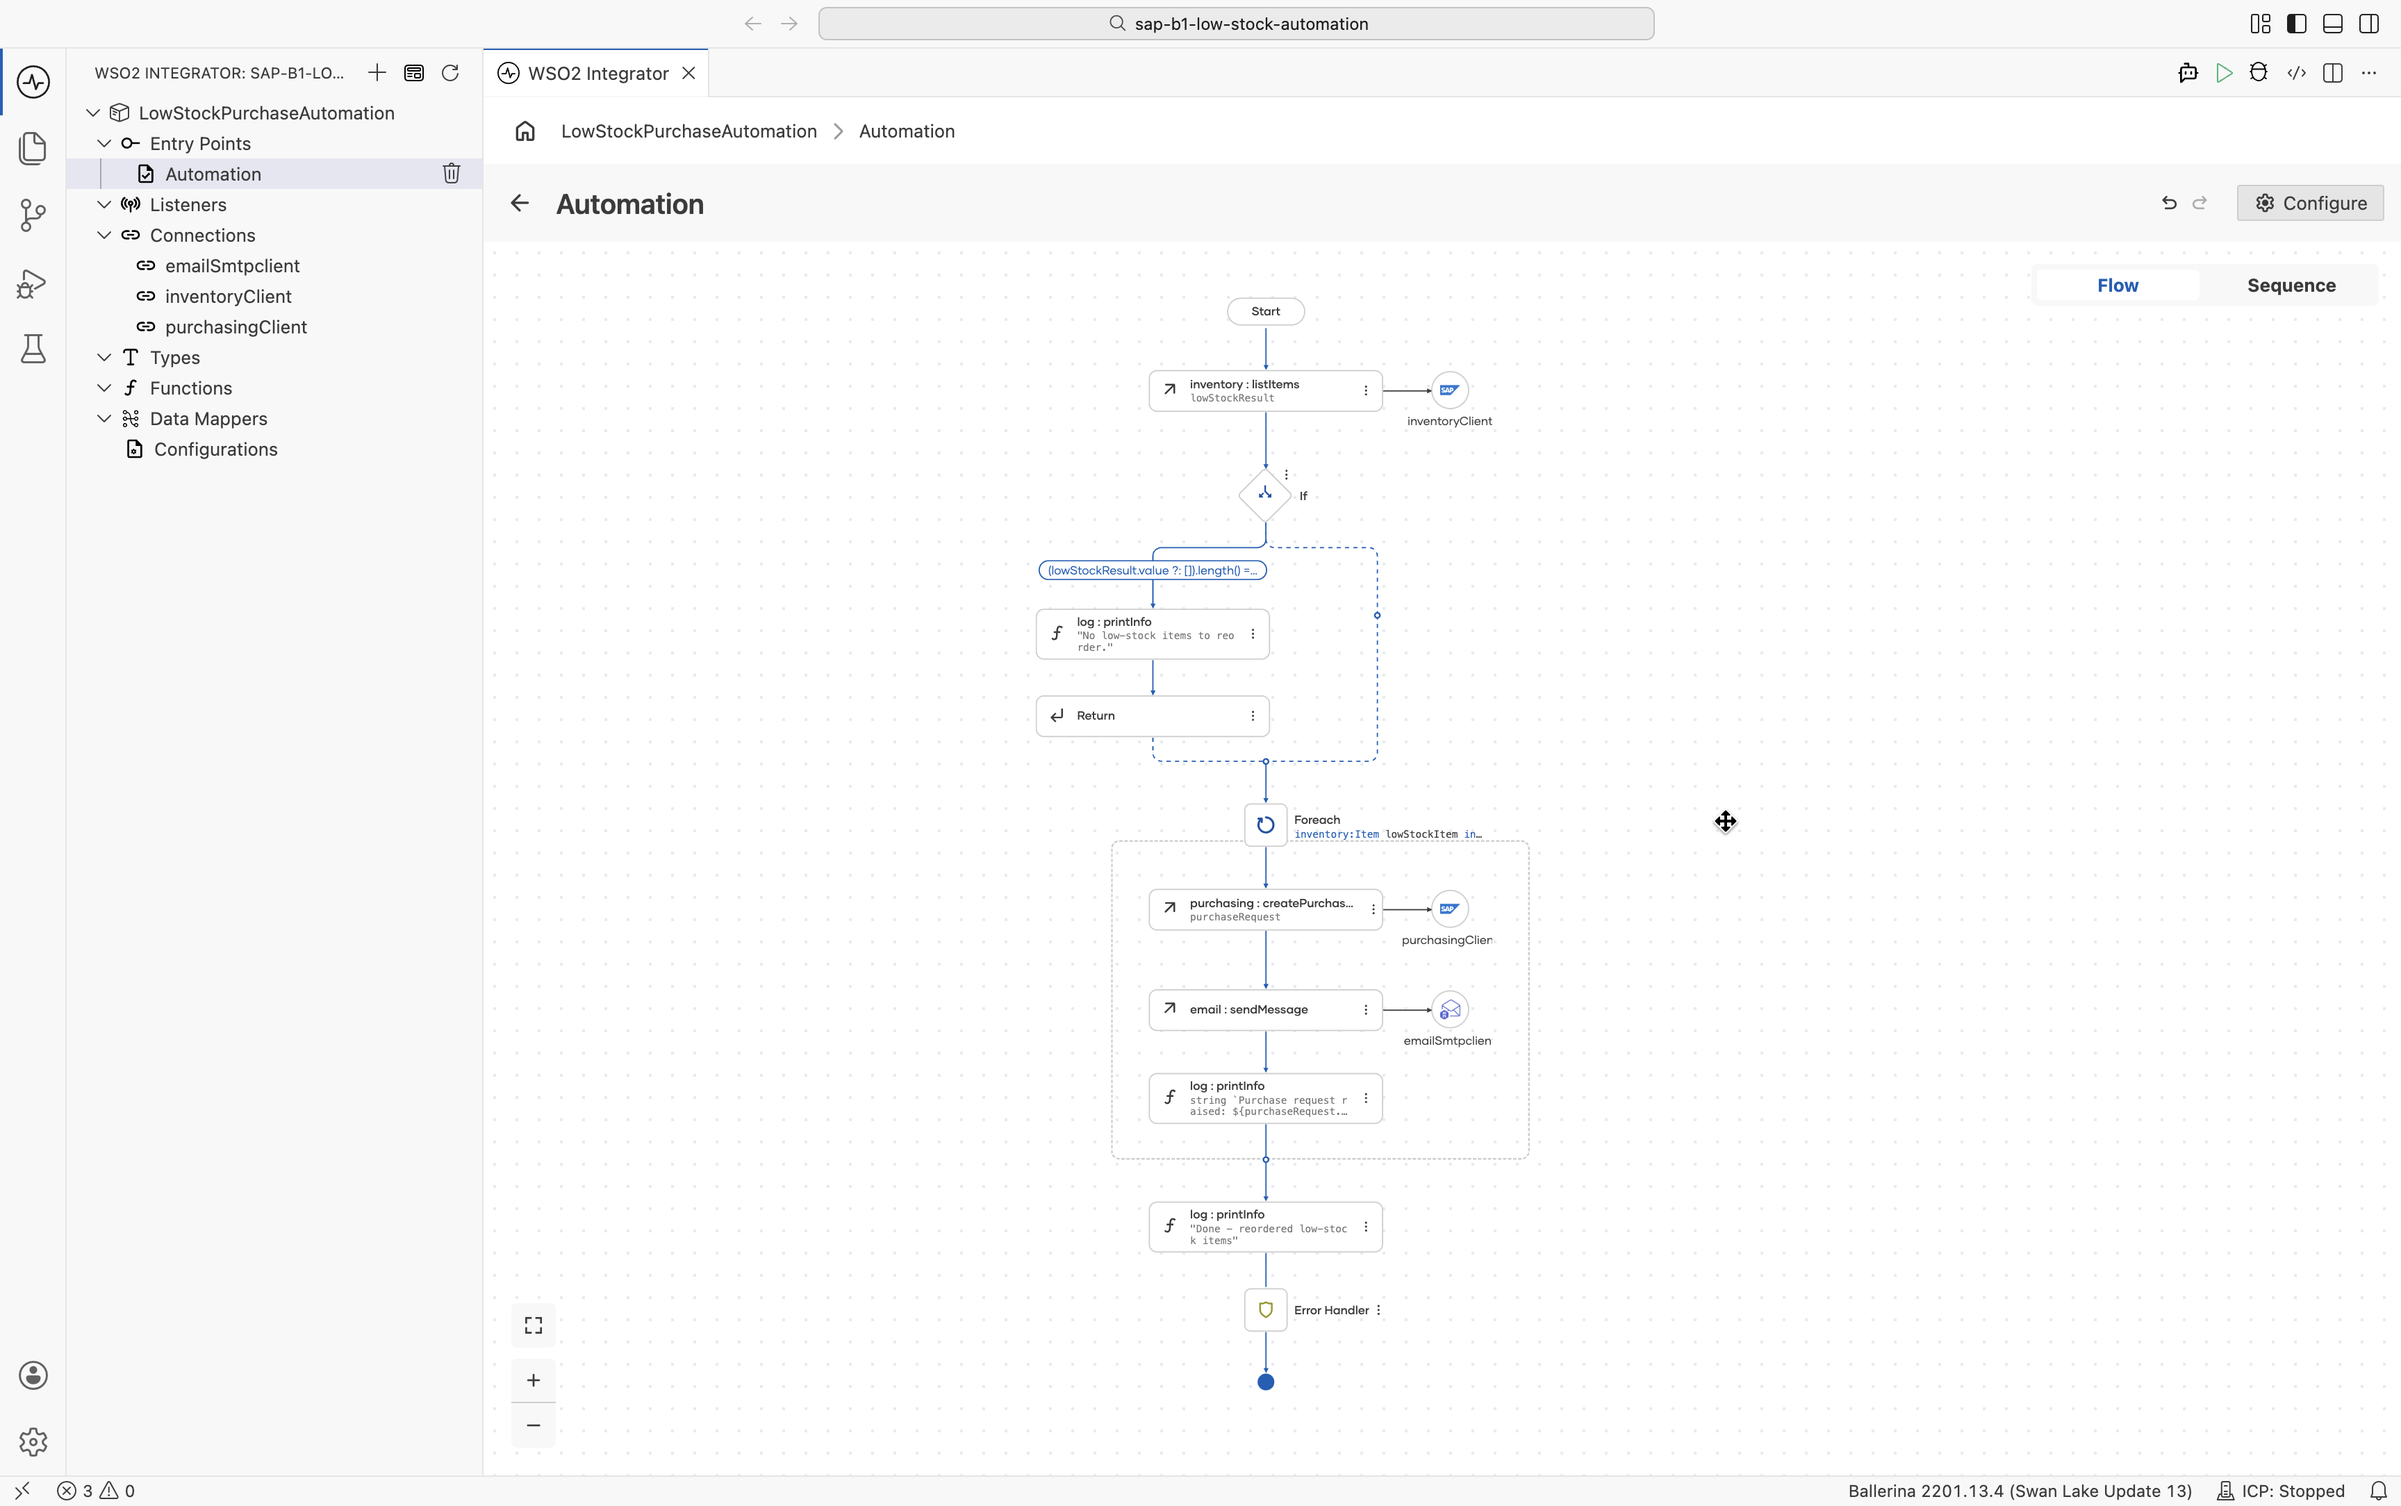
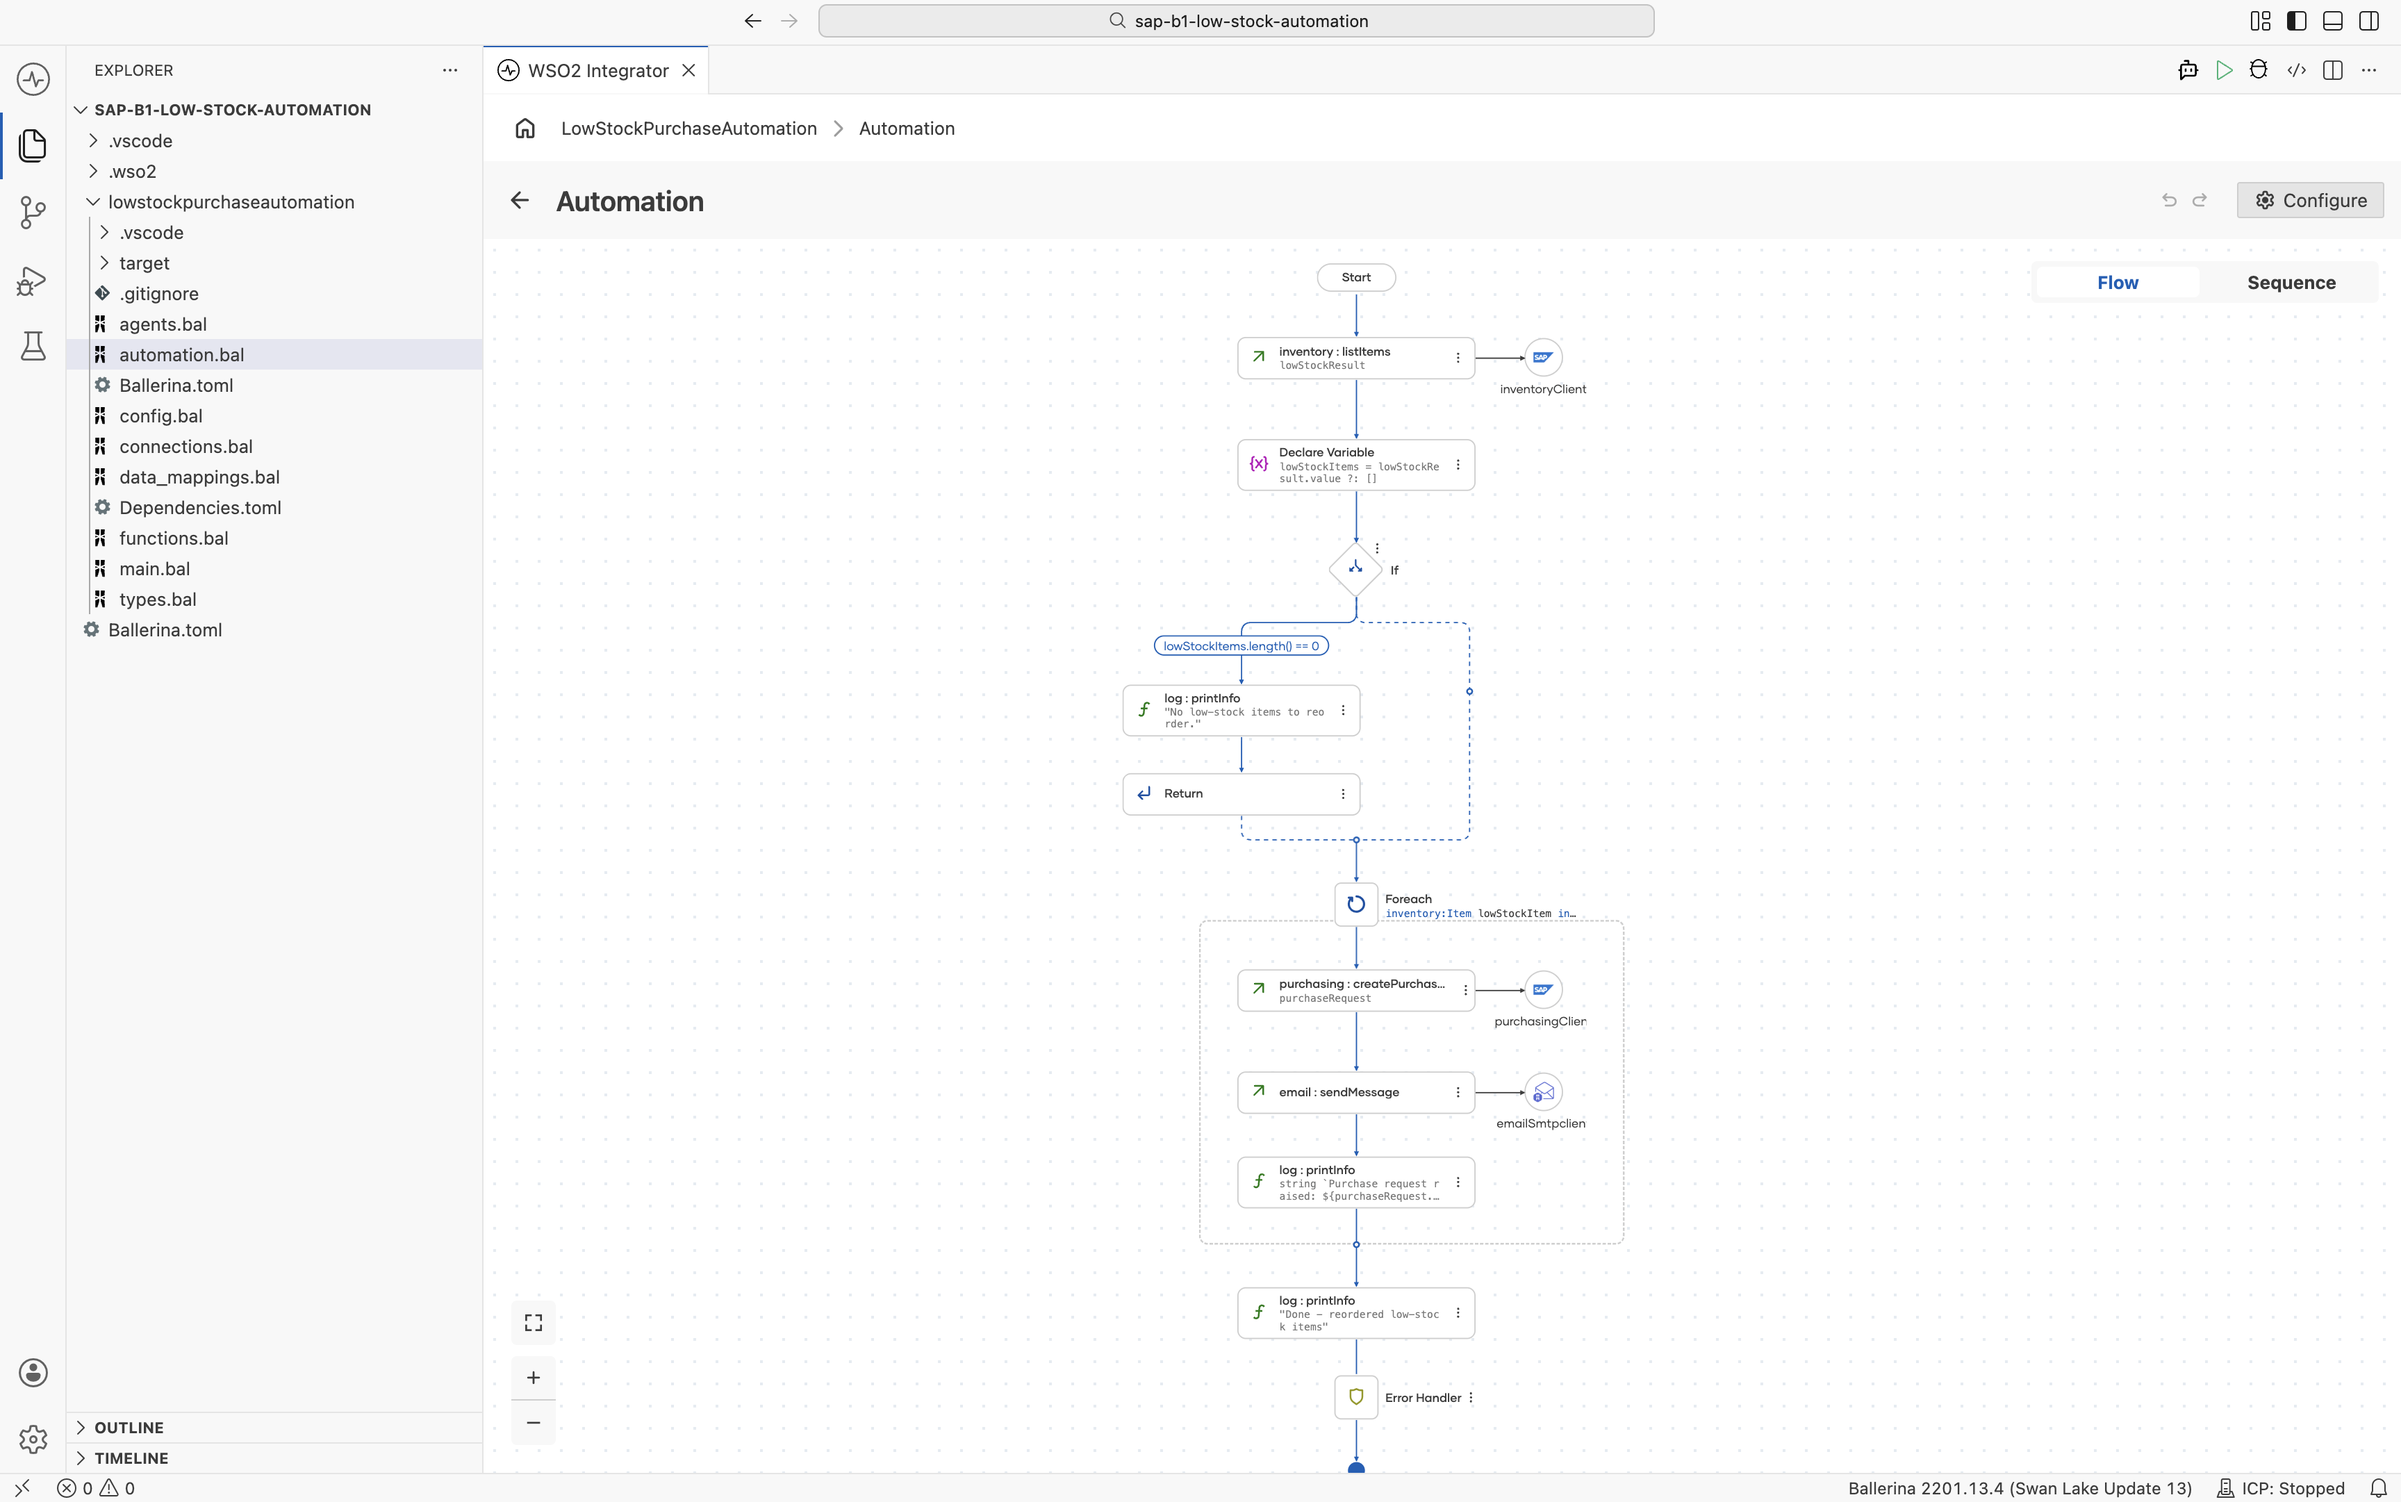
Polish SAP B1 low-stock use case: lowStockItems variable, editorial cleanup
- Split the Purchasing connection into its own subsection; add a
  configurables best-practice tip for connection credentials.
- Introduce a Declare Variable node (lowStockItems) right after List
  Items, reused in the If condition and Foreach loop instead of
  repeating lowStockResult.value ?: [] each time; update the
  Ballerina code sample and checkpoint screenshots to match.
- Point users to the Configurable Variables panel instead of
  hand-editing Config.toml when running the integration.
- Point DocumentLines' ItemCode at the Expression editor's Variables
  list instead of typing the expression by hand.
- Various wording tightening across the connection, run, and payload
  steps.

diff --git a/en/docs/guides/usecases/sap-b1-low-stock-purchase-automation.md b/en/docs/guides/usecases/sap-b1-low-stock-purchase-automation.md
@@ -92,6 +92,8 @@ Click the company name at the top of the SAP Business One desktop application, o
 The **Current Server** field identifies the SAP HANA or SQL Server instance behind the Service Layer, not the Service Layer itself — it is not part of the connector configuration. Ask your SAP administrator for the Service Layer's own address if you do not already have it.
 :::
 
+### Add the Inventory connection
+
 1. Add a [connection](../../develop/integration-artifacts/supporting/connections.md#adding-a-connection): **Add Connection → Search Connectors**, then search for `sap.businessone.inventory` and select **ballerinax/sap.businessone.inventory**.
 2. Configure the connection:
 
@@ -100,7 +102,11 @@ The **Current Server** field identifies the SAP HANA or SQL Server instance behi
     | Service URL | `https://<service-layer-host>:50000/b1s/v1` |
     | Company DB | Your company database, from the **Database** field in the SAP Business One client |
     | Username | Your SAP Business One **User ID** |
-    | Password | Your SAP Business One **Password** |
+    | Password | Your SAP Business One **Password**, bound to a [configurable value](../../develop/integration-artifacts/supporting/configurations.md) |
+
+    :::tip Best practice
+    Don't hardcode credentials into the connection. Click each field and select **Configurables** in the [Expression editor](../../develop/understand-ide/editors/expression-editor.md)'s helper pane, then click **New Configurable** and set up a configurable, so the value is supplied at runtime instead of stored in the flow.
+    :::
 
     <ThemedImage
         alt="Configure Inventory connection dialog with the SAP Business One session record (companyDb, username, password) and the connection named inventoryClient"
@@ -111,11 +117,12 @@ The **Current Server** field identifies the SAP HANA or SQL Server instance behi
     />
 
 3. Name the connection `inventoryClient`.
-4. Repeat the same steps with `sap.businessone.purchasing`, using the same Service URL, Company DB, Username, and Password, and name this connection `purchasingClient`.
 
-WSO2 Integrator stores the Service URL, Company DB, Username, and Password as [configurable values](../../develop/integration-artifacts/supporting/configurations.md), so you can repoint the automation at a different SAP Business One company per environment without touching the flow.
+### Add the Purchasing connection
 
-Both connections now appear under **Connections**.
+Similar to the connection you just added, add one more: search for `sap.businessone.purchasing` and select **ballerinax/sap.businessone.purchasing**. Configure it with the same Service URL, Company DB, Username, and Password as `inventoryClient`, and name this connection `purchasingClient`.
+
+Both connections will appear under **Connections**.
 
 ## Step 3: Read the items running low on stock
 
@@ -139,9 +146,19 @@ Your operation should match the checkpoint below.
 
 Exit early when there is nothing to reorder, so an empty run stays cheap and quiet.
 
-1. Add an [**If**](../../develop/understand-ide/editors/flow-diagram-editor/control.md#if) node after **List Items** with the condition `(lowStockResult.value ?: []).length() == 0`. `value` is optional, so the `?:` supplies an empty array as a fallback before calling `.length()`.
-2. Inside the branch, add a **Log Info** node with the message `"No low-stock items to reorder."`
-3. After the log, add a [**Return**](../../develop/understand-ide/editors/flow-diagram-editor/control.md#return) node with no value.
+1. Add a [**Declare Variable**](../../develop/understand-ide/editors/flow-diagram-editor/statement.md#declare-variable) node after **List Items** that assigns `lowStockResult.value ?: []` to a variable named `lowStockItems` (type `Item[]`).
+
+    <ThemedImage
+        alt="Declare Variable panel creating lowStockItems with type inventory:Item[] and expression lowStockResult.value ?: []"
+        sources={{
+            light: useBaseUrl('/img/guides/usecases/sap-b1-low-stock-automation/declare-variable-lowstockitems.png'),
+            dark: useBaseUrl('/img/guides/usecases/sap-b1-low-stock-automation/declare-variable-lowstockitems.png'),
+        }}
+    />
+
+2. Add an [**If**](../../develop/understand-ide/editors/flow-diagram-editor/control.md#if) node after it with the condition `lowStockItems.length() == 0`.
+3. Inside the branch, add a **Log Info** node with the message `"No low-stock items to reorder."`
+4. After the log, add a [**Return**](../../develop/understand-ide/editors/flow-diagram-editor/control.md#return) node with no value.
 
 Your flow should now branch and return early when nothing is low.
 
@@ -171,20 +188,20 @@ To reach your mail server, add an [**Email Smtp**](../../connectors/catalog/buil
     }}
 />
 
-Then build the loop:
+### Build the loop
 
-1. Add a [**Foreach**](../../develop/understand-ide/editors/flow-diagram-editor/control.md#foreach) node after the **If**, looping over `lowStockResult.value ?: []` with the item variable `lowStockItem` (type `Item`).
+1. Add a [**Foreach**](../../develop/understand-ide/editors/flow-diagram-editor/control.md#foreach) node after the **If**, looping over `lowStockItems` with the item variable `lowStockItem` (type `Item`).
 2. Inside the loop, add the `purchasingClient` **Create Purchase Requests** operation, and set **Result** to `purchaseRequest`. Configure the following fields on the **Document** record:
 
     | Field | Value |
     | --- | --- |
-    | DocumentLines | One line with **ItemCode** = `lowStockItem.ItemCode` and **Quantity** = `50` |
+    | DocumentLines | For **ItemCode**, open the field's [Expression editor](../../develop/understand-ide/editors/expression-editor.md) and select `lowStockItem` → `ItemCode` from the **Variables** list in the helper pane. Set **Quantity** to `50`. |
     | RequesterEmail | A valid email address, for example `"requester@example.com"` |
     | RequriedDate | A required-by date, for example `"2026-07-13"` |
     | BPL_IDAssignedToInvoice | Required only when your company has multiple branches (Business Places) enabled; the `BPLID` of a branch your user is authorized for |
 
     :::note
-    Instead of hardcoding **RequriedDate** to a fixed date, you can compute it dynamically relative to the run date — for example, three days out — using Ballerina's `time` module: `time:utcToCivil(time:utcAddSeconds(time:utcNow(), 3 * 24 * 60 * 60))` returns a `time:Civil` three days from now, whose `year`, `month`, and `day` fields you can format as a `yyyy-MM-dd` string for the field.
+    Instead of hardcoding **RequriedDate** to a fixed date, you can compute it dynamically relative to the run date. for example, using time module: `time:utcToCivil(time:utcAddSeconds(time:utcNow(), 3 * 24 * 60 * 60))` returns a `time:Civil` three days from now.
     :::
 
     Your payload should match the checkpoint below.
@@ -292,11 +309,12 @@ import ballerinax/sap.businessone.purchasing;
 public function main() returns error? {
     do {
         inventory:ItemsCollectionResponse lowStockResult = check inventoryClient->listItems(dollarFilter = "QuantityOnStock lt 10 and PurchaseItem eq 'YES'");
-        if (lowStockResult.value ?: []).length() == 0 {
+        inventory:Item[] lowStockItems = lowStockResult.value ?: [];
+        if lowStockItems.length() == 0 {
             log:printInfo("No low-stock items to reorder.");
             return;
         }
-        foreach inventory:Item lowStockItem in lowStockResult.value ?: [] {
+        foreach inventory:Item lowStockItem in lowStockItems {
             purchasing:Document purchaseRequest = check purchasingClient->createPurchaseRequests({
                 DocumentLines: [
                     {ItemCode: lowStockItem.ItemCode, Quantity: 50}
@@ -330,7 +348,7 @@ The `inventory:Client` and `purchasing:Client` are generated when you add the co
 
 ## Run and verify
 
-1. Select **Run** on the integration overview. When prompted, create the `Config.toml` and supply your SAP Business One password and your SMTP server details:
+1. Go to **Configurations** and supply your SAP Business One credentials and your SMTP server details, then select **Run** on the integration overview:
 
     ```toml
     b1ServiceUrl = "https://<service-layer-host>:50000/b1s/v1"
